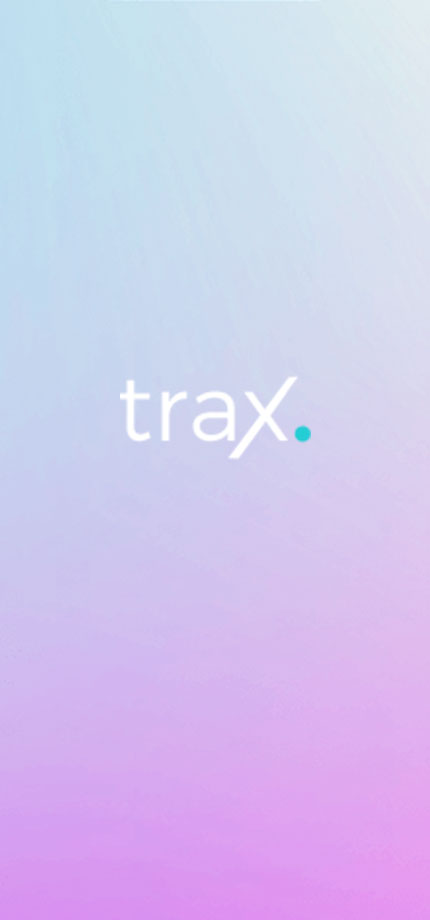
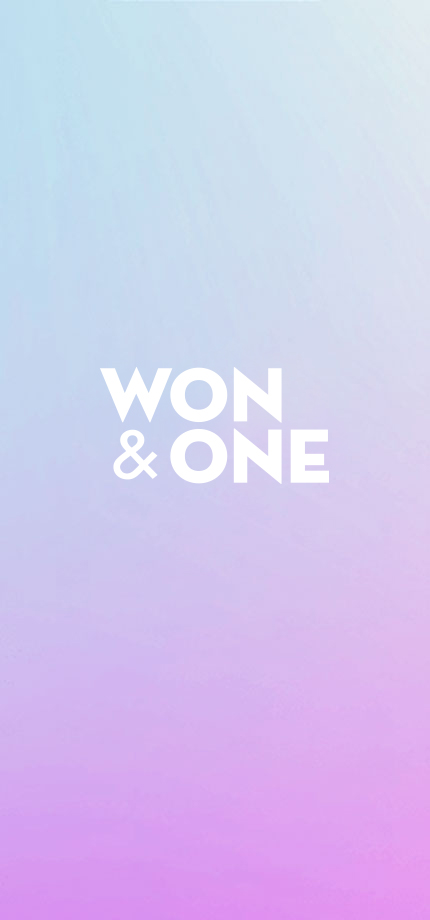
update

Changed region(s): [[0.2419, 0.3957, 0.7558, 0.5478]]

diff --git a/index.html b/index.html
@@ -40,8 +40,8 @@
     <nav class="navbar navbar-expand-lg transparent-bg static-nav">
         <div class="container">
             <a class="navbar-brand" href="index.html">
-                <img src="images/logo-transparent.png" alt="logo" class="logo-default">
-                <img src="images/logo.png" alt="logo" class="logo-scrolled">
+                <img src="images/wonnone-logo-transparent.png" alt="logo" class="logo-default">
+                <img src="images/wonnone-black-logo-transparent.png" alt="logo" class="logo-scrolled">
             </a>
             <div class="collapse navbar-collapse">
                 <ul class="navbar-nav mx-auto ml-xl-auto mr-xl-0">
@@ -50,9 +50,6 @@
                     </li>
                     <li class="nav-item">
                         <a class="nav-link pagescroll scrollupto" href="#about">About Us</a>
-                    </li>
-                    <li class="nav-item">
-                        <a class="nav-link pagescroll" href="#portfolio">Portfolio</a>
                     </li>
                     <li class="nav-item">
                         <a class="nav-link pagescroll" href="#contact">Contact Us</a>
@@ -79,23 +76,12 @@
                         <a class="nav-link pagescroll scrollupto" href="#about">About Us</a>
                     </li>
                     <li class="nav-item">
-                        <a class="nav-link pagescroll" href="#pricing">Our Pricing</a>
-                    </li>
-                    <li class="nav-item">
-                        <a class="nav-link pagescroll" href="#portfolio">Portfolio</a>
-                    </li>
-                    <li class="nav-item">
                         <a class="nav-link pagescroll" href="#contact">Contact Us</a>
                     </li>
                 </ul>
             </nav>
             <div class="side-footer w-100">
-                <ul class="social-icons-simple white top40">
-                    <li><a href="javascript:void(0)" class="facebook"><i class="fab fa-facebook-f"></i> </a> </li>
-                    <li><a href="javascript:void(0)" class="twitter"><i class="fab fa-twitter"></i> </a> </li>
-                    <li><a href="javascript:void(0)" class="insta"><i class="fab fa-instagram"></i> </a> </li>
-                </ul>
-                <p class="whitecolor">&copy; <span id="year"></span> Trax. Made With Love by ThemesIndustry</p>
+                <p class="whitecolor">&copy; <span id="year"></span> Won&One. NO 1. Perfomance Marketing Platform</p>
             </div>
         </div>
     </div>
@@ -210,12 +196,6 @@
             </ul>
         </div>
     </div>
-    <ul class="social-icons-simple revicon white">
-        <li class="d-table"><a href="javascript:void(0)" class="facebook"><i class="fab fa-facebook-f"></i></a> </li>
-        <li class="d-table"><a href="javascript:void(0)" class="twitter"><i class="fab fa-twitter"></i> </a> </li>
-        <li class="d-table"><a href="javascript:void(0)" class="linkedin"><i class="fab fa-linkedin-in"></i> </a> </li>
-        <li class="d-table"><a href="javascript:void(0)" class="insta"><i class="fab fa-instagram"></i> </a> </li>
-    </ul>
 </section>
 <!--Main Slider ends -->
 <!--Some Services-->
@@ -520,26 +500,19 @@
                 <div class="col-md-6 col-sm-12 order-md-2 text-center text-md-left">
                     <div class="contact-meta pl-0 pl-sm-5 wow fadeInRight" data-wow-delay="300ms">
                         <div class="heading-title heading_small">
-                            <span class="defaultcolor mb-2">Our locations
+                            <span class="defaultcolor mb-2">위치
                             </span>
-                            <h3 class="darkcolor font-normal" style="font-size:15pt">Headquarter office : Seoul, South of Korea
+                            <h3 class="darkcolor font-normal" style="font-size:15pt">본사 : 서울, 대한민국(Seoul, Republic of Korea)
                             </h3>
                         </div>
                         <div class="my-3">
-                            <p class="bottom10">Address: </p>
-                            <p class="bottom10">Postal code: </p>
-                            <p class="bottom10">0400 20778972</p>
-                            <p class="bottom10"><a href="mailto:polpo@traxagency.co.au">polpo@traxagency.com</a></p>
-                            <p class="bottom10">Mon-Fri: 9am-5pm</p>
+                            <p class="bottom10">주소: 서울 특별시 강남구 논현로 72길 25, 301호(역삼동, 엘앤제이)</p>
+                            <p class="bottom10">Addr: 25, Nonhyeon-ro 72-gil, Gangnam-gu, Seoul</p>
+                            <p class="bottom10">우편번호(Postal Code): 06227</p>
+                            <p class="bottom10">(주)원앤원 | 대표이사 : 정연국</p>
+                            <p class="bottom10"><a href="mailto:info@wonnone.com">info@wonnone.com</a></p>
+                            <p class="bottom10">월요일-금요일: 9am-6pm</p>
                         </div>
-                        <ul class="social-icons no-border mb-4 mb-md-0 wow fadeInUp" data-wow-delay="300ms">
-                            <li><a href="javascript:void(0)" class="facebook"><i class="fab fa-facebook-f"></i> </a> </li>
-                            <li><a href="javascript:void(0)" class="twitter"><i class="fab fa-twitter"></i> </a> </li>
-                            <li><a href="javascript:void(0)" class="linkedin"><i class="fab fa-linkedin-in"></i> </a> </li>
-                            <li><a href="javascript:void(0)" class="insta"><i class="fab fa-instagram"></i> </a> </li>
-                            <li><a href="javascript:void(0)" class="whatsapp"><i class="fab fa-whatsapp"></i> </a> </li>
-                            <li><a href="javascript:void(0)"><i class="far fa-envelope"></i> </a> </li>
-                        </ul>
                     </div>
                 </div>
                 <div class="col-md-6 col-sm-12">
@@ -592,9 +565,9 @@
 <footer id="site-footer" class=" bgdark padding_top">
     <div class="container">
         <div class="row">
-            <div class="col-lg-3 col-md-6 col-sm-6">
+            <div class="col-lg-4 col-md-12 col-sm-12">
                 <div class="footer_panel padding_bottom_half bottom20">
-                    <a href="index.html" class="footer_logo bottom25"><img src="images/logo-transparent.png" alt="trax"></a>
+                    <a href="index.html" class="footer_logo bottom25"><img src="images/wonnone-logo-transparent.png" alt="trax"></a>
                     <p class="whitecolor bottom25">(주)원앤원 | 대표이사 : 정연국<br/>사업자등록번호 : 422-88-02211</p>
                     <div class="d-table w-100 address-item whitecolor bottom25">
                         <span class="d-table-cell align-middle"><i class="fas fa-mobile-alt"></i></span>
@@ -602,50 +575,34 @@
                             <a class="d-block" href="mailto:info@wonnone.com">info@wonnone.com</a>
                         </p>
                     </div>
-                    <ul class="social-icons white wow fadeInUp" data-wow-delay="300ms">
-                        <li><a href="javascript:void(0)" class="facebook"><i class="fab fa-facebook-f"></i> </a> </li>
-                        <li><a href="javascript:void(0)" class="twitter"><i class="fab fa-twitter"></i> </a> </li>
-                        <li><a href="javascript:void(0)" class="linkedin"><i class="fab fa-linkedin-in"></i> </a> </li>
-                        <li><a href="javascript:void(0)" class="insta"><i class="fab fa-instagram"></i> </a> </li>
-                    </ul>
                 </div>
             </div>
-            <div class="col-lg-3 col-md-6 col-sm-6">
-                <div class="footer_panel padding_bottom_half bottom20">
-                    <h3 class="whitecolor bottom25">최근 뉴스</h3>
-                    <ul class="latest_news whitecolor">
-                        <li> <a href="#.">Aenean tristique justo et... </a> <span class="date defaultcolor">15 March 2019</span> </li>
-                        <li> <a href="#.">Phasellus dapibus dictum augue... </a> <span class="date defaultcolor">15 March 2019</span> </li>
-                        <li> <a href="#.">Mauris blandit vitae. Praesent non... </a> <span class="date defaultcolor">15 March 2019</span> </li>
-                    </ul>
-                </div>
-            </div>
-            <div class="col-lg-3 col-md-6 col-sm-6">
+            <div class="col-lg-4 col-md-12 col-sm-12">
                 <div class="footer_panel padding_bottom_half bottom20 pl-0 pl-lg-5">
                     <h3 class="whitecolor bottom25">Navigation</h3>
                     <ul class="links">
                         <li><a href="#home" class="pagescroll">Home</a></li>
                         <li><a href="#about" class="pagescroll scrollupto">About Us</a></li>
-                        <li><a href="#portfolio" class="pagescroll">Portfolio</a></li>
                         <li><a href="#contact" class="pagescroll">Contact Us</a></li>
                     </ul>
                 </div>
             </div>
-            <div class="col-lg-3 col-md-6 col-sm-6">
+            <div class="col-lg-4 col-md-12 col-sm-12">
                 <div class="footer_panel padding_bottom_half bottom20">
                     <h3 class="whitecolor bottom25">업무 시간</h3>
-                    <p class="whitecolor bottom25">Our support available to help you 24 hours a day, seven days week</p>
+                    <p class="whitecolor bottom25">주말, 공휴일은 휴무입니다.</p>
                     <ul class="hours_links whitecolor">
-                        <li><span>Monday-Saturday:</span> <span>8.00-18.00</span></li>
-                        <li><span>Friday:</span> <span>09:00-21:00</span></li>
-                        <li><span>Sunday:</span> <span>09:00-20:00</span></li>
-                        <li><span>Calendar Events:</span> <span>24-Hour Shift</span></li>
+                        <li><span>월요일-금요일:</span> <span>9.00-18.00</span></li>
+                        <li><span>토요일:</span> <span>휴무</span></li>
+                        <li><span>일요일:</span> <span>휴무</span></li>
+                        <li><span>공휴일</span> <span>휴무</span></li>
                     </ul>
                 </div>
             </div>
         </div>
     </div>
 </footer>
+<script type="text/javascript" src="//dapi.kakao.com/v2/maps/sdk.js?appkey=a8fa587cd54434eb11107da46f4a6bcb"></script>
 <!--Footer ends-->
 <!-- jQuery first, then Popper.js, then Bootstrap JS -->
 <script src="js/jquery-3.4.1.min.js"></script>

diff --git a/js/map.js b/js/map.js
@@ -1,126 +1,36 @@
 /* ----- Google Map ----- */
 if ($("#map").length) {
     function initialize() {
-        var myLatLng = {lat: 40.711, lng: -74.0016};
-        var mapOptions = {
-            zoom: 17,
-            scrollwheel: false,
-            styles: [
-                {
-                    "featureType": "landscape",
-                    "elementType": "all",
-                    "stylers": [
-                        {
-                            "hue": "#999999"
-                        },
-                        {
-                            "saturation": -100
-                        },
-                        {
-                            "lightness": -33
-                        },
-                        {
-                            "visibility": "on"
-                        }
-                    ]
-                },
-                {
-                    "featureType": "landscape.man_made",
-                    "elementType": "geometry.fill",
-                    "stylers": [
-                        {
-                            "visibility": "on"
-                        },
-                        {
-                            "color": "#b1b1b1"
-                        }
-                    ]
-                },
-                {
-                    "featureType": "landscape",
-                    "elementType": "geometry.fill",
-                    "stylers": [
-                        {
-                            "color": "#d1d1d1"
-                        }
-                    ]
-                },
-                {
-                    "featureType": "poi",
-                    "elementType": "all",
-                    "stylers": [
-                        {
-                            "hue": "#aaaaaa"
-                        },
-                        {
-                            "saturation": -100
-                        },
-                        {
-                            "lightness": -15
-                        },
-                        {
-                            "visibility": "on"
-                        }
-                    ]
-                },
-                {
-                    "featureType": "road",
-                    "elementType": "all",
-                    "stylers": [
-                        {
-                            "hue": "#999999"
-                        },
-                        {
-                            "saturation": -100
-                        },
-                        {
-                            "lightness": -6
-                        },
-                        {
-                            "visibility": "on"
-                        }
-                    ]
-                },
-                {
-                    "featureType": "transit",
-                    "elementType": "all",
-                    "stylers": [
-                        {
-                            "visibility": "off"
-                        }
-                    ]
-                },
-                {
-                    "featureType": "water",
-                    "elementType": "geometry.fill",
-                    "stylers": [
-                        {
-                            "color": "#afe0ff"
-                        }
-                    ]
-                },
-                {
-                    "featureType": "poi",
-                    "elementType": "all",
-                    "stylers": [
-                        {
-                            "visibility": "off"
-                        }
-                    ]
-                }
-            ],
-            center: myLatLng //please add your location here
-        };
+        var mapContainer = document.getElementById('map'), // 지도를 표시할 div 
+            mapOption = {
+                center: new kakao.maps.LatLng(37.49637, 127.04141), // 지도의 중심좌표
+                level: 1 // 지도의 확대 레벨
+            };
 
-        var map = new google.maps.Map(document.getElementById('map'),
-            mapOptions);
-        var marker = new google.maps.Marker({
-            position: {lat: 40.7115, lng: -74.0016},
-            icon: 'images/location-pin.png', //if u want custom
-            animation: google.maps.Animation.DROP,
-            map: map,
-            title:"Trax Founder's Agency"
+        var map = new kakao.maps.Map(mapContainer, mapOption);
+
+        // 마커가 표시될 위치입니다 
+        var markerPosition = new kakao.maps.LatLng(37.49637, 127.04141);
+
+        // 마커를 생성합니다
+        var marker = new kakao.maps.Marker({
+            position: markerPosition
         });
+
+        // 마커가 지도 위에 표시되도록 설정합니다
+        marker.setMap(map);
+
+        var iwContent = '<div style="padding:5px;">강남구 논현로72길 25<br><a href="http://kko.to/uyZhdqwDM" style="color:blue" target="_blank">지도보기</a> <a href="http://kko.to/uyZhdqwDM" style="color:blue" target="_blank">길찾기</a></div>', // 인포윈도우에 표출될 내용으로 HTML 문자열이나 document element가 가능합니다
+            iwPosition = new kakao.maps.LatLng(37.49637, 127.04141); //인포윈도우 표시 위치입니다
+
+        // 인포윈도우를 생성합니다
+        var infowindow = new kakao.maps.InfoWindow({
+            position: iwPosition,
+            content: iwContent
+        });
+
+        // 마커 위에 인포윈도우를 표시합니다. 두번째 파라미터인 marker를 넣어주지 않으면 지도 위에 표시됩니다
+        infowindow.open(map, marker);
     }
-    google.maps.event.addDomListener(window, 'load', initialize);
+    initialize()
 }

diff --git a/js/functions.js b/js/functions.js
@@ -1037,10 +1037,10 @@ jQuery($=> {
     /* -------copy right year maker------ */
     let copyYear = new Date().getFullYear();
     let copyText = $('#year , #year1');
-    if (copyYear === 2019) {
+    if (copyYear === 2021) {
         copyText.text(copyYear);
     } else {
-        copyText.text('2019-' + copyYear);
+        copyText.text('2021-' + copyYear);
     }
 
     /* =====================================
